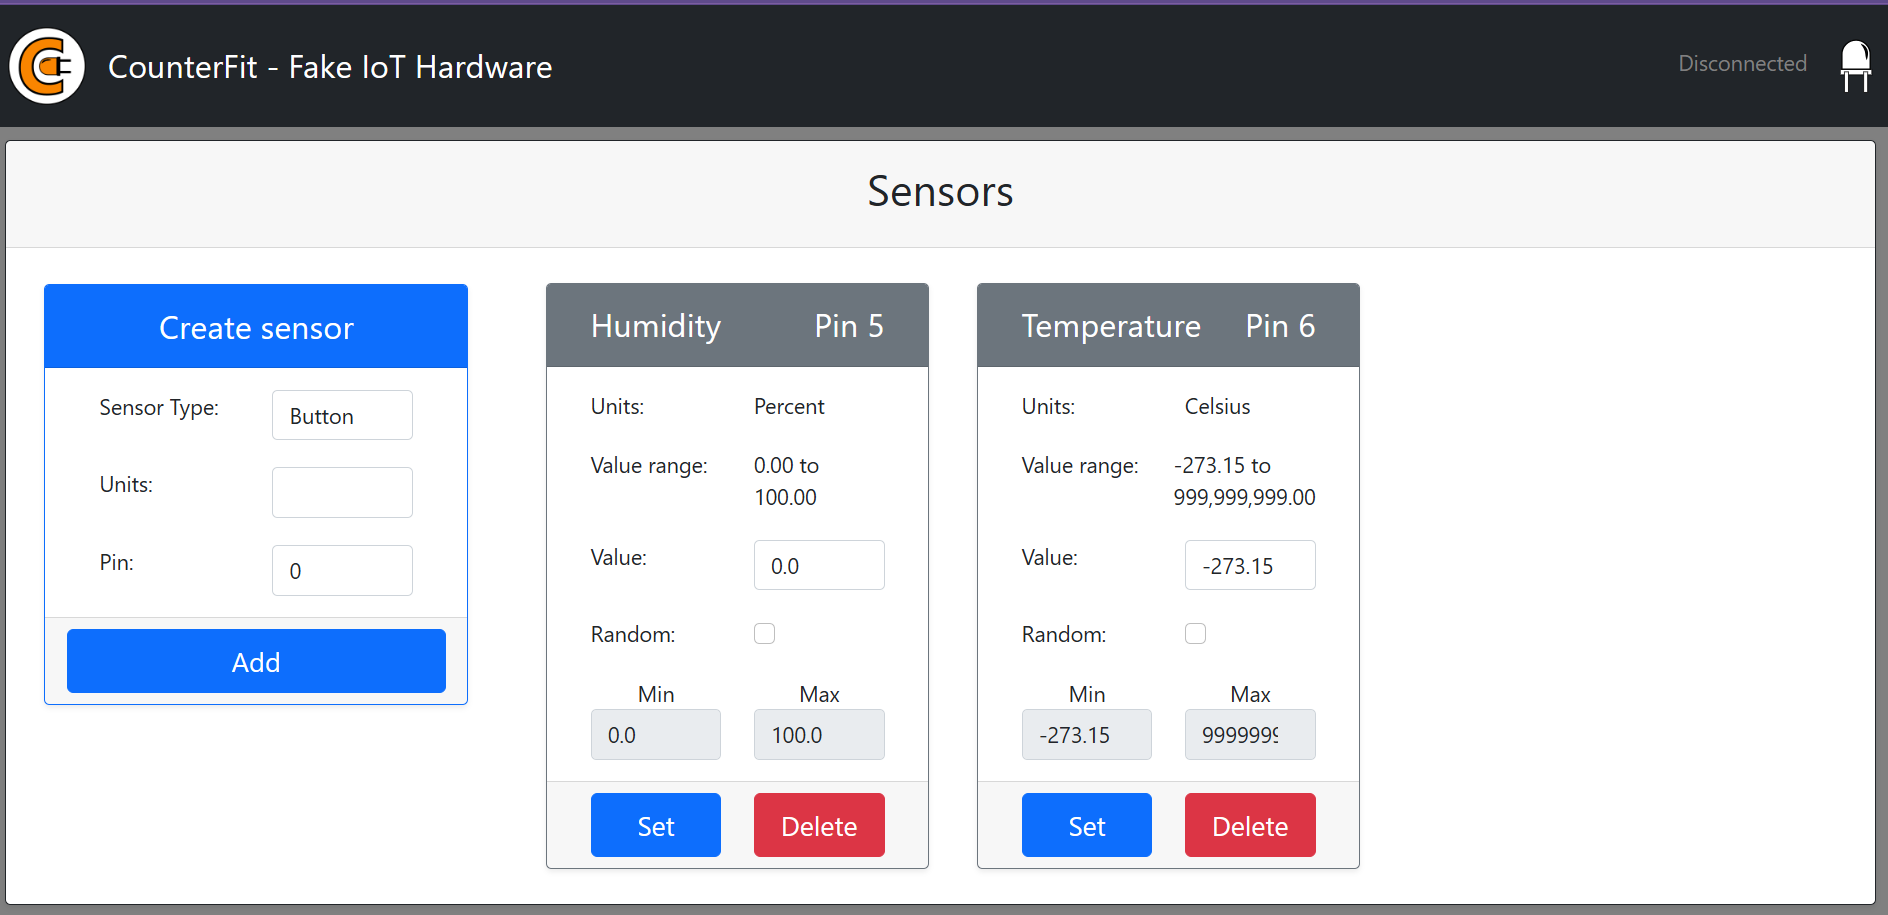
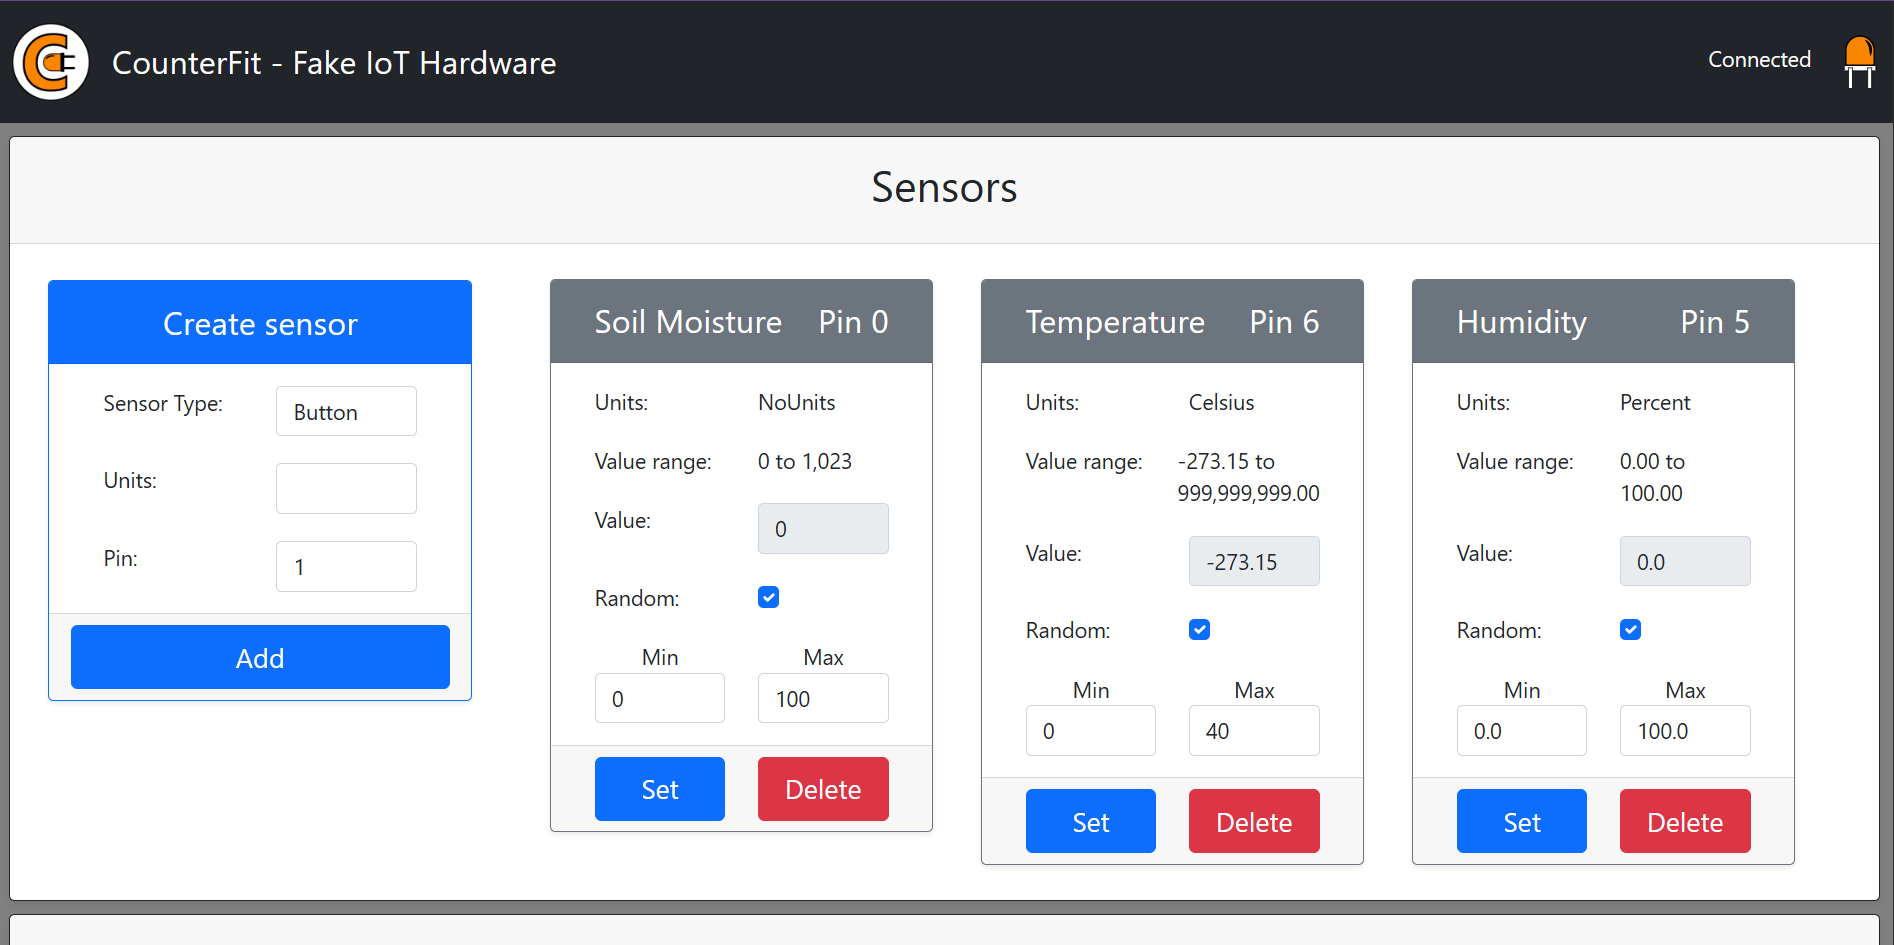
migrating to Ubuntu

diff --git a/7-janerose-projects/2-farm/src/farm.py b/7-janerose-projects/2-farm/src/farm.py
@@ -1,4 +1,5 @@
-# Code uses virtual CounterFit hardware to simulate a temperature and humidity device
+# Code uses virtual CounterFit hardware to simulate a temperature, humidity,
+# soil moisture and relay devices
 from os import path
 
 import csv
@@ -8,9 +9,11 @@ import json
 import time
 
 from counterfit_shims_seeed_python_dht import DHT
+from counterfit_shims_grove.adc import ADC
+from counterfit_shims_grove.grove_relay import GroveRelay
 
 from counterfit_connection import CounterFitConnection
-#  this library automatically checks if there is a network connection
+# this library automatically checks if there is a network connection
 from paho.mqtt import client as mqtt_client
 
 logging.basicConfig(level=logging.INFO)
@@ -39,40 +42,59 @@ if not path.exists(temperature_file_name):
         writer = csv.DictWriter(csv_file, fieldnames=fieldnames)
         writer.writeheader()
 
+
 def handle_command(payload):
-    # device-side: handle incoming command messages (LedOn) from the server
-    led_val = bool(payload.get("LedOn", False))
-    logging.info("Applying command LedOn = %s", led_val)
+    # device-side: handle incoming command messages (RelayOn) from the server
+    relay_val = bool(payload.get("RelayOn", False))
+    logging.info("Applying command RelayOn = %s", relay_val)
     try:
-        if led_val:
-            led.on()
+        if relay_val:
+            relay.on()
         else:
-            led.off()
+            relay.off()
     except Exception as e:
-        logging.error("Failed to set led state: %s", e)
+        logging.error("Failed to set relay state: %s", e)
 
 
 def process_telemetry(payload):
     """
-    Simple controller logic:
-    - Expect payload like {"temperature": <int>, "timestamp": ...}
-    - Decide LedOn based on LIGHT_THRESHOLD and publish to SERVER_COMMAND_TOPIC.
+    Process telemetry data locally and control relay based on moisture levels
     """
     try:
         temperature = int(payload.get("temperature", -1))
         humidity = int(payload.get("humidity", -1))
+        soil_moisture = int(payload.get("moisture", -1))
+        if soil_moisture < 45:
+            print(
+                f"Soil Moisture is {soil_moisture}% - too low, turning relay ON.")
+            relay.on()
+            relay_state = True
+        else:
+            print(
+                f"Soil Moisture is {soil_moisture}% - sufficient, turning relay OFF.")
+            relay.off()
+            relay_state = False
+        command = {"relay_on": relay_state}
+        command_payload = json.dumps(command)
+        logging.info("Publishing local command: %s", command_payload)
+        mqtt_client.publish(SERVER_COMMAND_TOPIC, command_payload)
+        # store temperature values to CSV file
         with open(temperature_file_name, mode='a') as temperature_file:
-            temperature_writer = csv.DictWriter(temperature_file, fieldnames=fieldnames)
+            temperature_writer = csv.DictWriter(
+                temperature_file, fieldnames=fieldnames)
             # The data is stored in ISO 8601 format with the timezone, but without microseconds.
-            temperature_writer.writerow({'datetime': datetime.now().astimezone().replace(microsecond=0).isoformat(), 'temperature': payload['temperature']})
+            temperature_writer.writerow({'datetime': datetime.now().astimezone().replace(
+                microsecond=0).isoformat(), 'temperature': payload['temperature']})
     except Exception as e:
         logging.error("Invalid telemetry payload: %s", e)
         return
-    logging.info(
-        "Processing telemetry temperature = %d °C | humidity = %d %%", temperature, humidity)
+    logging.info("Processing telemetry temperature = %d °C | humidity = %d %%", temperature, humidity)
 
 
 def on_message_handler(client, userdata, message):
+    """
+    Handle incoming MQTT messages (for external commands only)
+    """
     try:
         payload = json.loads(message.payload.decode())
     except Exception as e:
@@ -80,8 +102,8 @@ def on_message_handler(client, userdata, message):
         return
 
     logging.info("Received on %s: %s", message.topic, payload)
-    if message.topic == CLIENT_TELEMETRY_TOPIC:
-        process_telemetry(payload)
+    if message.topic == SERVER_COMMAND_TOPIC:
+        handle_command(payload)
     else:
         logging.warning("Unhandled topic: %s", message.topic)
 
@@ -95,24 +117,33 @@ mqtt_client.subscribe(SERVER_COMMAND_TOPIC)
 try:
     CounterFitConnection.init("127.0.0.1", 5000)
     logging.info("Connected to CounterFit server")
-    # virtual Digital Humidity and Temperature sensor. dht type is a virtual DHT11 sensor
+    # dht type is a virtual Digital Humidity and Temperature (DHT11) sensor
     dht_sensor = DHT(dht_type="11", pin=5)
+    adc_sensor = ADC()
+    relay = GroveRelay(pin=15)
 
     while True:
         # poll the temperature sensor value
         try:
             humidity, temp = dht_sensor.read()
-            logging.info('Temperature: %d', int(temp))
-            logging.info('Humidity: %d', int(humidity))
+            soil_moisture = adc_sensor.read(0)
+
+            logging.info('Temperature: %d  °C | Humidity: %d %% | Soil Moisture: %d %%', int(
+            temp), int(humidity), int(soil_moisture))
+
             telemetry = {
                 "temperature": int(temp),
                 "humidity": int(humidity),
+                "moisture": int(soil_moisture),
                 "timestamp": int(time.time() * 1000)
             }
+            process_telemetry(telemetry)
             payload = json.dumps(telemetry)
             logging.info("Publishing telemetry: %s", payload)
             mqtt_client.publish(CLIENT_TELEMETRY_TOPIC, payload)
-            # no need to check the temperature levels continuously, wait for a second before polling again
+
+            # no need to check the sensor values continuously
+            # wait for a second before polling again
             # this reduces the power consumption of the device
             time.sleep(10)
         except Exception as e:

diff --git a/7-janerose-projects/2-farm/src/farm-sensor/src/main.cpp b/7-janerose-projects/2-farm/src/farm-sensor/src/main.cpp
@@ -11,8 +11,10 @@
 WiFiClient wifiClient;
 PubSubClient mqttClient(wifiClient);
 
+#define MOISTURE_PIN 34
 #define DHTPIN 15
 #define DHTTYPE DHT22
+#define RELAY_PIN 2 // GPIO pin connected to the relay's IN pin
 
 DHT dht(DHTPIN, DHTTYPE);
 
@@ -75,6 +77,9 @@ void setup()
 
   connectToWiFi();
   createMqttClient();
+
+  pinMode(RELAY_PIN, OUTPUT);
+  digitalWrite(RELAY_PIN, LOW);
 }
 
 void connectToMqttClient()
@@ -148,17 +153,22 @@ void loop()
     Serial.println("Failed to read from DHT sensor!");
     return;
   }
+  int sensorValue = analogRead(MOISTURE_PIN);
+  float moisturePercent = map(sensorValue, 0, 4095, 0, 100);
 
   Serial.print("Temp: ");
   Serial.print(temp_hum_val[1]);
   Serial.print(" °C  |  Humidity: ");
   Serial.print(temp_hum_val[0]);
-  Serial.println(" %");
+  Serial.print(" % | Soil Moisture: ");
+  Serial.print(moisturePercent);
+  Serial.println("%");
 
   // Create and send telemetry
   DynamicJsonDocument doc(1024);
   doc["temperature"] = temp_hum_val[1];
   doc["humidity"] = temp_hum_val[0];
+  doc["moisture"] = moisturePercent;
 
   String telemetry;
   serializeJson(doc, telemetry);
@@ -167,6 +177,16 @@ void loop()
   Serial.println(telemetry);
 
   mqttClient.publish(CLIENT_TELEMETRY_TOPIC.c_str(), telemetry.c_str());
-  // temperature value doesn't need to be read very often - it won't change much in a short space of time
+  // sensor value doesn't need to be read very often - it won't change much in a short space of time
+   if (moisturePercent < 65)
+  {
+    Serial.println("Soil Moisture is too low, turning relay on.");
+    digitalWrite(RELAY_PIN, HIGH);
+  }
+  else
+  {
+    Serial.println("Soil Moisture is ok, turning relay off.");
+    digitalWrite(RELAY_PIN, LOW);
+  }
   delay(5000);
 }

diff --git a/7-janerose-projects/2-farm/README.md b/7-janerose-projects/2-farm/README.md
@@ -62,6 +62,13 @@ This project simulates a farm environment with temperature and humidity sensors 
 4. Ensure the Pin is set to 6.
 5. Click Add.
 
+### Add a virtual soil moisture sensor to CounterFit
+1. In the CounterFit web UI → Sensors → Create sensor.
+2. Select Sensor type: Soil Moisture.
+3. Leave the Units set to No Units.
+4. Ensure the Pin is set to 0.
+5. Click Add.
+
 The sensors will appear in the sensor list and are ready to provide simulated readings.
 ![Farm Sensors ](etc/farm_sensors.png "Farm sensors in CounterFit")
 
@@ -80,30 +87,36 @@ You should see the values you set appearing in the console. Change the Value or 
 
 Example:
 ```bash
-INFO:root:Temperature: -269
-INFO:root:Humidity: 76
+INFO:root:'Temperature: 21°C | Humidity: 76% | Soil moisture: 51%
 ```
 
 ## Adding Telemetry and Command
-The project code includes MQTT telemetry and command handling.
-
 The virtual IoT device publishes temperature and humidity telemetry to the topic `/telemetry`.
 
-Ensure that CounterFit server is running locally and that both the humidity and temperature sensors are added in CounterFit.
+__Ensure that the CounterFit server is running locally and that both the humidity and temperature sensors are added in CounterFit.__
 
 Run `farm.py` script to read temperature and humidity from the virtual sensors and publish telemetry:
 ```bash
 python "./src/farm.py"
 ```
-You should see the values you set appearing in the console. Change the Value or the Random settings to see the value change.
+You should see the values you set appearing in the console. Change the Value manually or click the Random checkbox to see the value change automatically.
 
-Example:
+Example Output:
 ```bash
-INFO:root:Temperature: 37
-INFO:root:Humidity: 3
-INFO:root:Publishing telemetry: {"temperature": 37, "humidity": 3, "timestamp": 1759004706424}
+INFO:root:'Temperature: 37°C | Humidity: 3% | Soil moisture: 15%
+INFO:root:Publishing telemetry: {"temperature": 37, "humidity": 3, "moisture": 15, "timestamp": 1759004706424}
 ```
-## Capture and store the sensor data
+
+## Controlling Relay via MQTT
+The relay can be controlled by the IoT device directly based off a single soil moisture sensor reading.
+
+> In a commercial irrigation system, the control logic should be centralized, allowing it to make decisions on watering using data from multiple sensors, and allowing any configuration to be changed in one single place. To simulate this, you can control the relay over MQTT.
+
+![Relay](etc/relay.png "Relay in CounterFit")
+
+Once the relay is added in CounterFit, the IoT device can subscribe to the `/command` topic to receive commands to turn the relay on or off.
+
+## Capture and store the temperature sensor data
 Once the IoT device is publishing telemetry, the server code can be written to subscribe to this data and store it either in a database or as a file.
 
 The CSV file will have two columns - date and temperature. The date column is set as the current date and time that the message was received by the server, the temperature comes from the telemetry message.
@@ -113,3 +126,28 @@ The CSV file will have two columns - date and temperature. The date column is se
 ## Visualize the temperature data
 The `gdd-calculation.ipynb` Jupyter notebook reads the temperature data from the CSV file and plots it using Matplotlib.
 ![Temperature against Time](etc/temperature_line_chart.png "Temperature against Time")
+
+## Timing for Soil Moisture Readings
+It takes a few seconds for the soil moisture reading to change after watering the plant. This is not because the sensor is slow, but because it takes time for water to soak through the soil. Watering can even finish before the water reaches the sensor and the changes to reflect the new moisture level.
+
+If you watered too close to the sensor you may have seen the reading change quickly, then come back up - this is caused by water near the sensor spreading throughout the rest of the soil, reducing the soil moisture by the sensor.
+
+>If you were writing code to control an irrigation system via a relay based off soil moisture levels, you would need to take this delay into consideration and build smarter timing into your IoT device.
+
+# Wokwi and PlatformIO simulation
+The `src/farm-sensor` folder contains a PlatformIO project that can be used to simulate farm IoT devices in Wokwi. The wokwi simulation makes use of an ESP32 microcontroller.
+
+The IoT devices can be programmed to read temperature, soil moisture and humidity from a DHT11 and moisture sensor and publish the data to an MQTT broker.
+
+Open the `src/farm-sensor` folder in PlatformIO and build the code. 
+
+Ctrl+Shift+P to open the command palette, then select `PlatformIO: Open PlatformIO Core CLI`. In the terminal, run:
+
+```bash
+pio run
+```
+
+This will compile the code and generate a firmware.bin file and firmware.elf file in the `.pio/build/esp32dev` folder.
+
+Ctrl+Shift+P to open the command palette, then select `Wokwi: Start Simulator`. This will start the Wokwi simulator and a terminal window to show the serial output from the simulated ESP32.
+

diff --git a/7-janerose-projects/1-getting-started/README.md b/7-janerose-projects/1-getting-started/README.md
@@ -1,4 +1,9 @@
 # Getting Started — Janerose IoT Projects
+This nightlight is an LED that turns on as soon as a low level of light is detected by a light sensor.
+
+The light sensor detects a change in light levels instantly, and the LED device is able to respond quickly, only limited by the length of the delay in the loop function or while True: loop.
+
+> As an IoT developer, you can't always rely on such a fast feedback loop.
 
 Pick a path below and follow the README in that folder for full step‑by‑step instructions.
 
